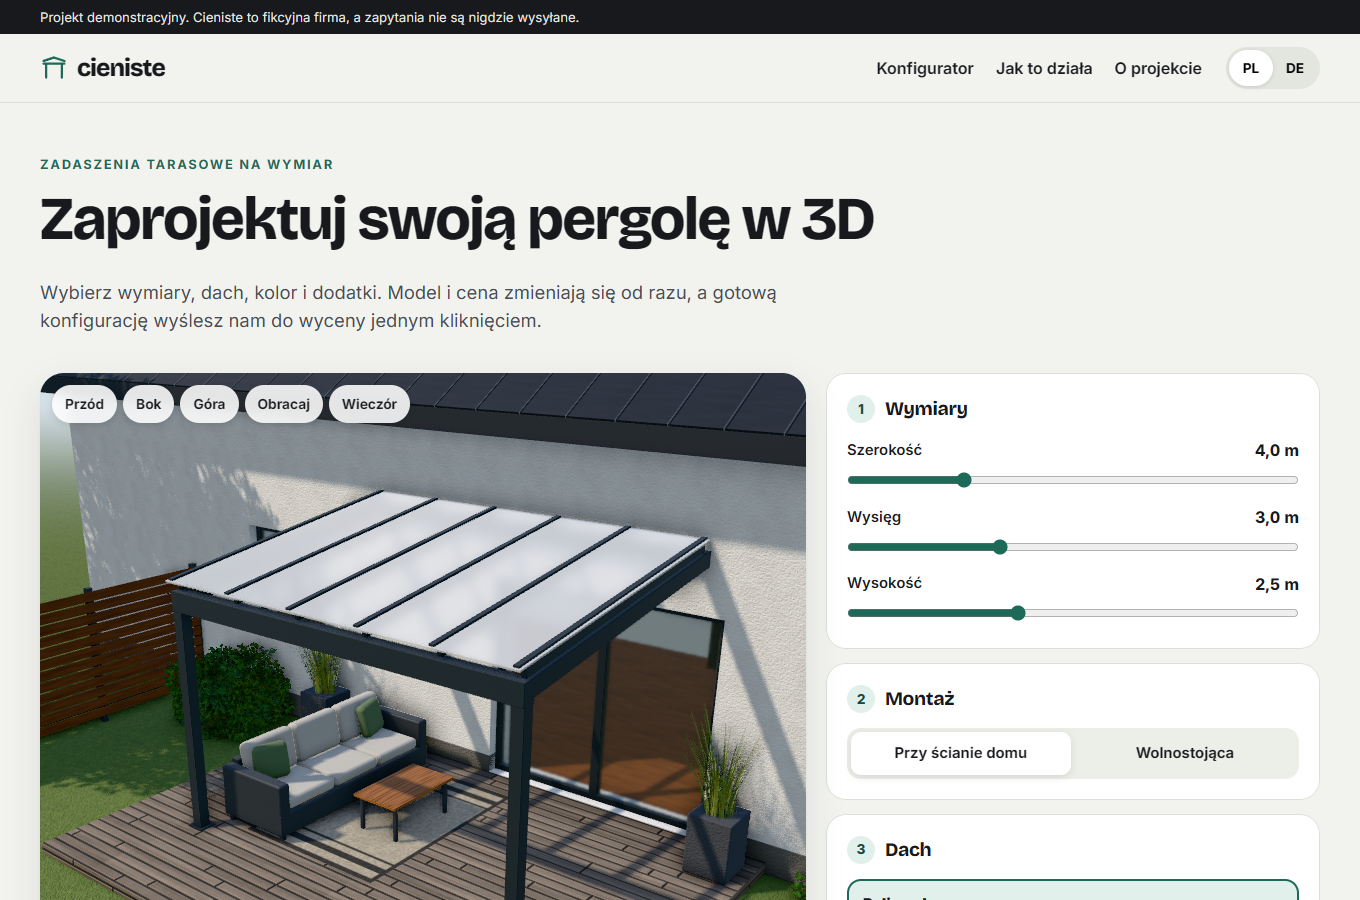
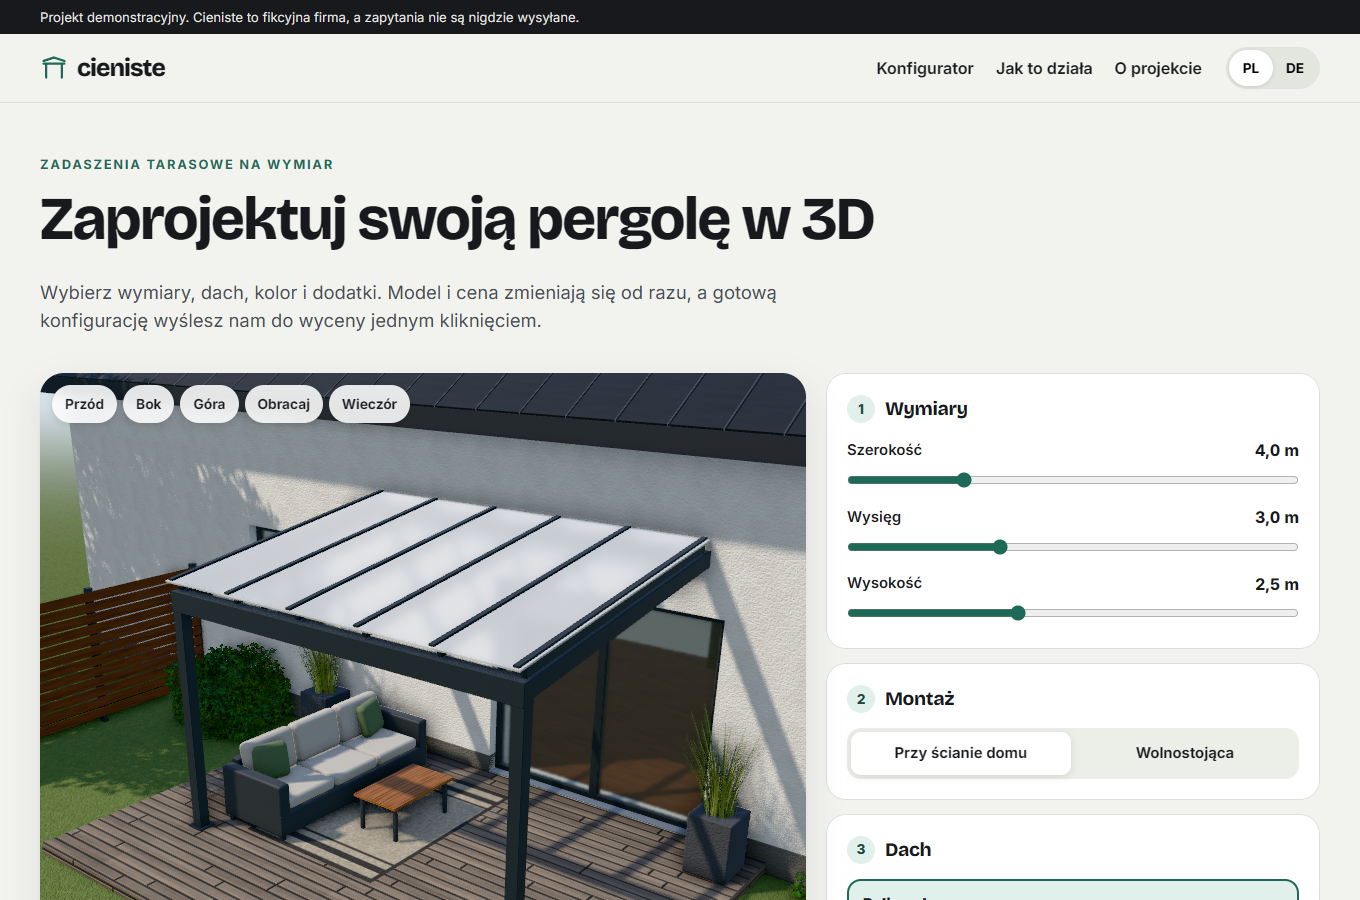
Parapet, próg i szyby jak w prawdziwym domu
- parapet z blachy z kapinosem, 1 cm nad tynkiem, więc nie migocze
- aluminiowy próg drzwi zamiast pasa gołego tynku pod ramą
- szyba z powłoką mocniej odbija niebo, wnętrze jest ciemniejsze
- firanka w oknie

Changed region(s): [[0.4015, 0.84, 0.525, 0.9333], [0.4632, 0.6844, 0.525, 0.7467]]

diff --git a/src/assets/js/scene.js b/src/assets/js/scene.js
@@ -299,8 +299,8 @@ export async function createViewer(canvas) {
 
   const satin = () => new THREE.Vector2(0.3, 0.3);
   // Inside the house only a little daylight reaches the walls, so they take little of the sky light.
-  const indoor = (options) => new THREE.MeshStandardMaterial({ side: THREE.BackSide, envMapIntensity: 0.1, ...options });
-  const furnishing = (options) => new THREE.MeshStandardMaterial({ envMapIntensity: 0.1, ...options });
+  const indoor = (options) => new THREE.MeshStandardMaterial({ side: THREE.BackSide, envMapIntensity: 0.06, ...options });
+  const furnishing = (options) => new THREE.MeshStandardMaterial({ envMapIntensity: 0.06, ...options });
   const materials = {
     frame: new THREE.MeshPhysicalMaterial({ color: '#383e42', roughness: 0.45, clearcoat: 0.3, clearcoatRoughness: 0.45, normalMap: maps.powder, normalScale: satin() }),
     // Opal polycarbonate: milky white, lets diffuse light through and has a soft sheen on top.
@@ -315,11 +315,13 @@ export async function createViewer(canvas) {
     roof: new THREE.MeshStandardMaterial({ map: maps.roof.map, normalMap: maps.roof.normal, roughness: 0.5, metalness: 0.3 }),
     fascia: new THREE.MeshStandardMaterial({ color: '#3a3d41', roughness: 0.6 }),
     windowFrame: new THREE.MeshPhysicalMaterial({ color: '#33373b', roughness: 0.4, clearcoat: 0.3, normalMap: maps.powder, normalScale: satin() }),
-    // Coated window glass reflects more of the sky than plain glass.
-    windowGlass: new THREE.MeshPhysicalMaterial({ color: '#e8f0f1', transmission: 1, roughness: 0.02, thickness: 0.02, ior: 1.9 }),
-    roomWall: indoor({ color: '#e4ded5', roughness: 0.95 }),
-    roomCeiling: indoor({ color: '#efebe5', roughness: 0.95 }),
-    roomFloor: indoor({ color: '#c2a585', map: maps.wood.map, normalMap: maps.wood.normal, roughness: 0.6 }),
+    // Coated window glass with a faint green tint reflects much more of the sky than plain glass.
+    windowGlass: new THREE.MeshPhysicalMaterial({ color: '#dfe9e7', transmission: 1, roughness: 0.02, thickness: 0.02, ior: 2.3 }),
+    // Brushed aluminium door threshold.
+    threshold: new THREE.MeshStandardMaterial({ color: '#9b9fa4', metalness: 0.7, roughness: 0.35 }),
+    roomWall: indoor({ color: '#c7c1b8', roughness: 0.95 }),
+    roomCeiling: indoor({ color: '#d6d1c9', roughness: 0.95 }),
+    roomFloor: indoor({ color: '#8a735f', map: maps.wood.map, normalMap: maps.wood.normal, roughness: 0.6 }),
     sideboard: furnishing({ color: '#3b3936', roughness: 0.55 }),
     pictureFrame: furnishing({ color: '#1f1f1f', roughness: 0.5 }),
     art: furnishing({ color: '#8fa1a6', map: maps.fabric.map, roughness: 0.9 }),
@@ -405,7 +407,8 @@ export async function createViewer(canvas) {
   }
 
   // A door or window set 16 cm deep into the wall: frame profiles, a middle post and clear glass.
-  function opening(width, height, x, bottom, wallFace, { sill = false } = {}) {
+  // A window gets a metal sill, a door an aluminium threshold, so no bare plaster shows under the frame.
+  function opening(width, height, x, bottom, wallFace, { sill = false, threshold = false } = {}) {
     const group = new THREE.Group();
     const profile = 0.07;
     const z = wallFace - 0.16;
@@ -426,9 +429,20 @@ export async function createViewer(canvas) {
     glass.position.set(x, bottom + height / 2, z);
     group.add(middle, glass);
     if (sill) {
-      const board = member(width + 0.06, 0.03, 0.2, frame, { radius: 0.006 });
-      board.position.set(x, bottom - 0.015, wallFace - 0.06);
-      group.add(board);
+      // Sheet-metal sill: it lies 1 cm above the bottom reveal (never in the same plane as the plaster),
+      // runs from under the frame to 5 cm past the wall and ends in a drip edge.
+      const depth = 0.18;
+      const board = member(width + 0.04, 0.012, depth, frame, { radius: 0.003 });
+      board.position.set(x, bottom + 0.006, wallFace - 0.13 + depth / 2);
+      const drip = member(width + 0.04, 0.04, 0.01, frame, { radius: 0.003 });
+      // 1 mm lower than the sill top, so the two top faces never share a plane.
+      drip.position.set(x, bottom - 0.009, wallFace + 0.05);
+      group.add(board, drip);
+    }
+    if (threshold) {
+      const plate = member(width, 0.012, 0.13, materials.threshold, { radius: 0.003, shadow: false });
+      plate.position.set(x, bottom + 0.006, wallFace - 0.065);
+      group.add(plate);
     }
     return group;
   }
@@ -453,7 +467,7 @@ export async function createViewer(canvas) {
   }
 
   // The room behind the glass: floor, walls, ceiling and sheer curtains, seen from the garden.
-  function interior(wallFace, door) {
+  function interior(wallFace, door, pane) {
     const depth = 5;
     const height = 2.85;
     const box = worldUV(new THREE.BoxGeometry(2 * HOUSE.half - 0.4, height, depth), 'x');
@@ -466,6 +480,10 @@ export async function createViewer(canvas) {
       curtain.position.set(x, DECK + 1.3, wallFace - 0.5);
       world.add(curtain);
     }
+    // A sheer net curtain across the window, as in most Polish houses.
+    const net = new THREE.Mesh(curtainGeometry(pane.x1 - pane.x0 + 0.1, pane.y1 - pane.y0 + 0.15), materials.curtain);
+    net.position.set((pane.x0 + pane.x1) / 2, (pane.y0 + pane.y1) / 2, wallFace - 0.47);
+    world.add(net);
     // A sideboard, a picture and a pendant lamp give the room depth when seen through the glass.
     const backWall = wallFace - 0.4 - depth;
     const sideboard = member(1.8, 0.75, 0.45, materials.sideboard, { radius: 0.01 });
@@ -668,10 +686,10 @@ export async function createViewer(canvas) {
       world.add(plinth);
     }
     world.add(
-      opening(DOOR.width, DOOR.height, DOOR.x, door.y0, wallFace),
+      opening(DOOR.width, DOOR.height, DOOR.x, door.y0, wallFace, { threshold: true }),
       opening(WINDOW.width, WINDOW.height, WINDOW.x, pane.y0, wallFace, { sill: true }),
     );
-    interior(wallFace, door);
+    interior(wallFace, door, pane);
 
     const ridge = { y: HOUSE.ridge, z: wallFace - HOUSE.depth / 2 };
     const pitch = (ridge.y - 4.45) / (HOUSE.depth / 2);
